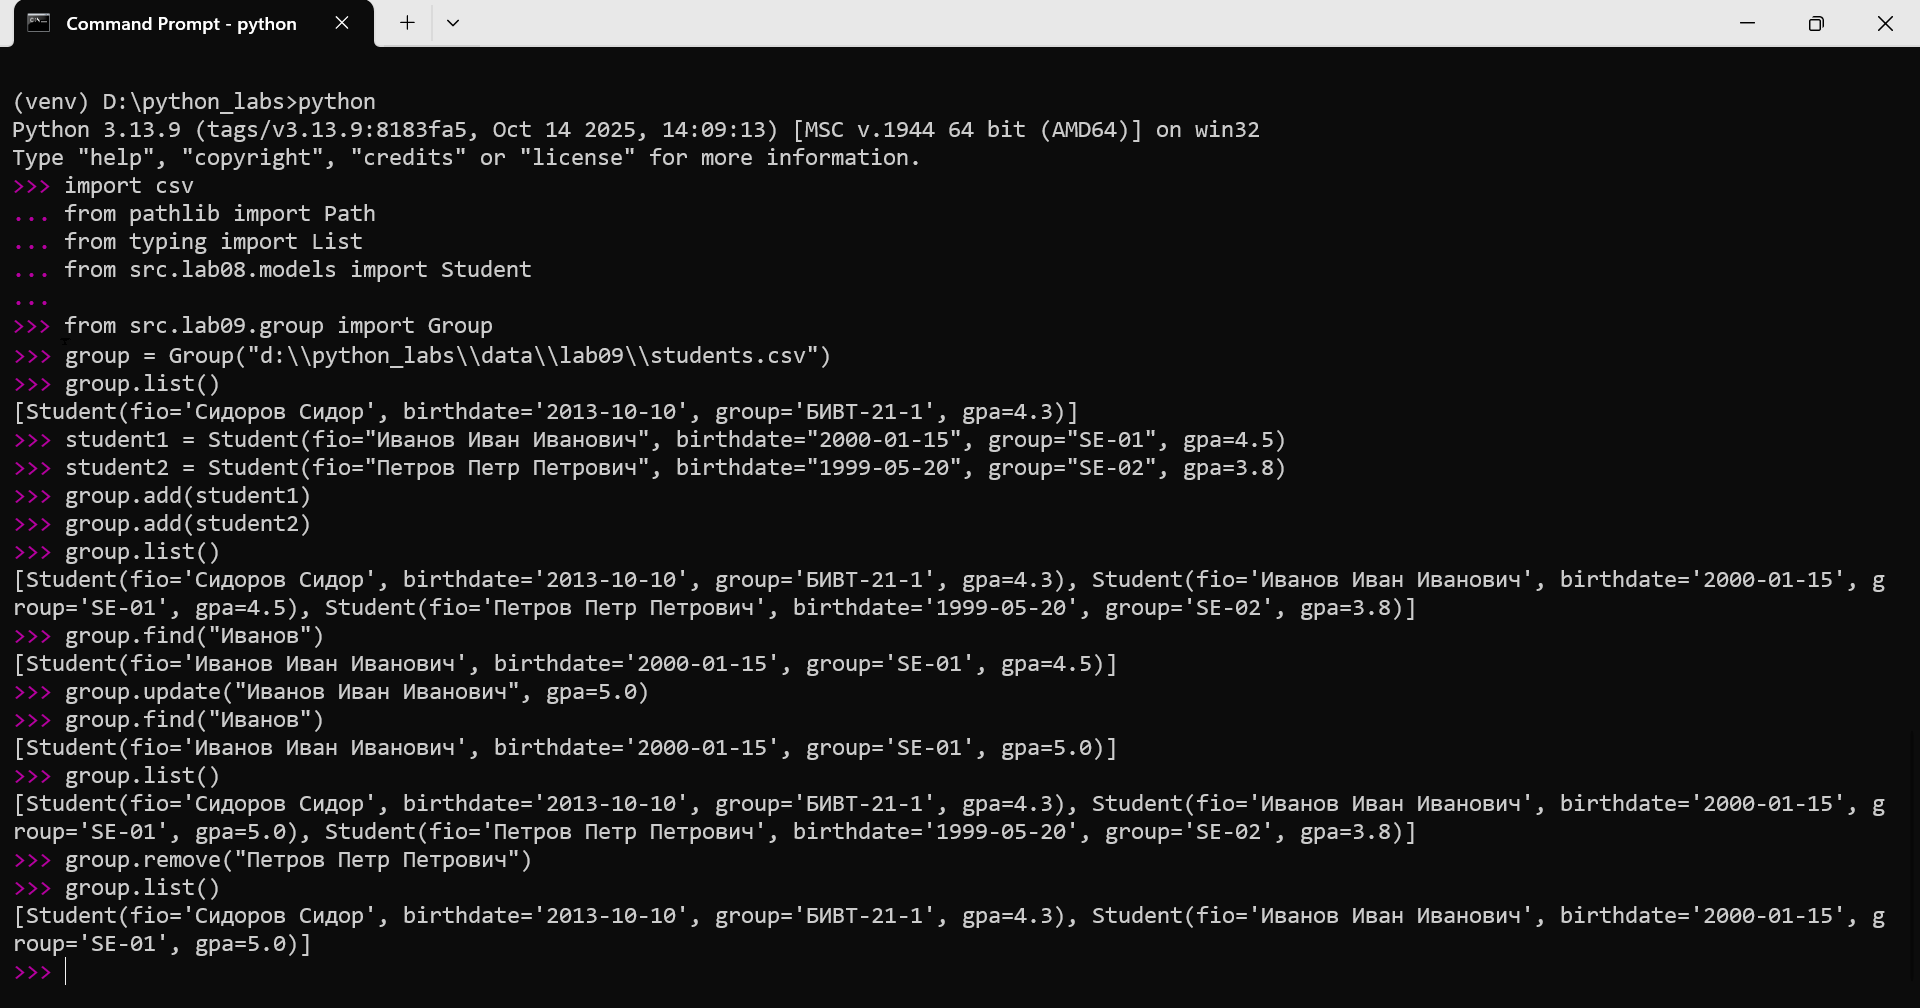
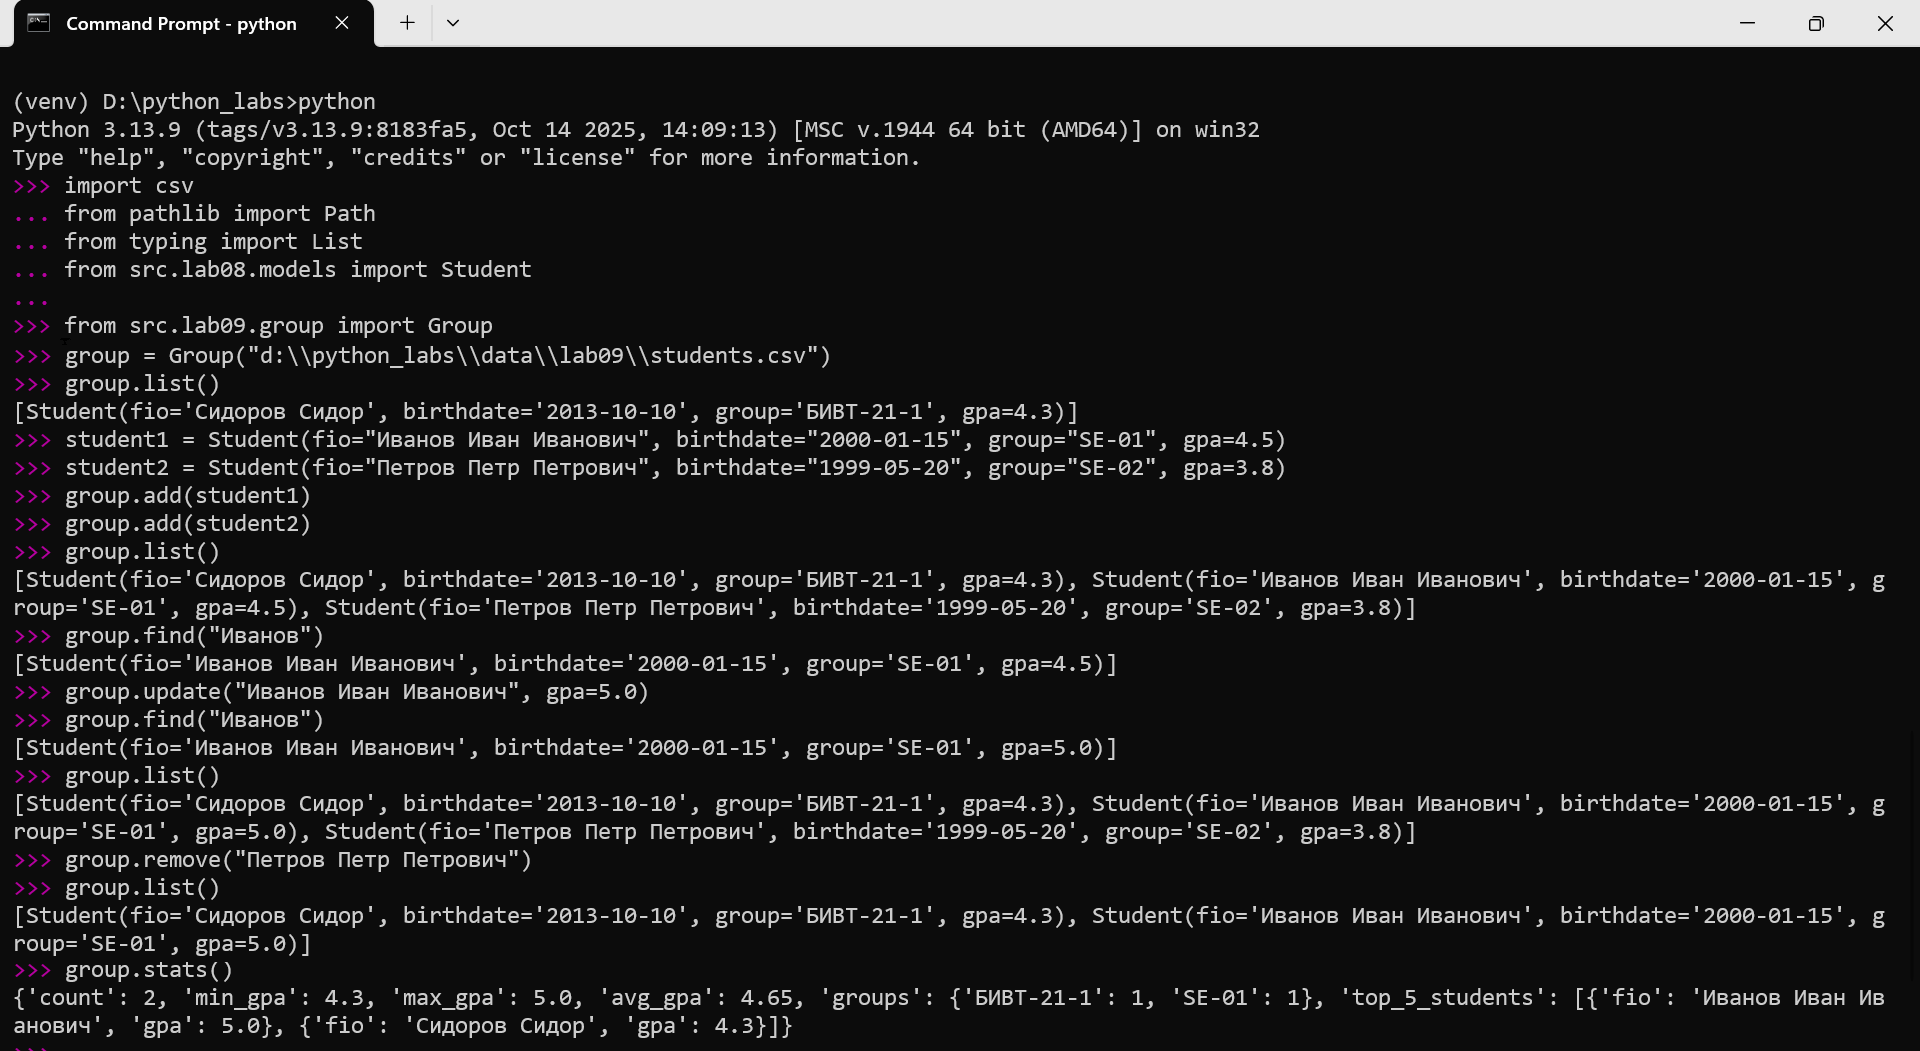
lab9 done

diff --git a/src/lab09/group.py b/src/lab09/group.py
@@ -1,31 +1,3 @@
-# CRUD — стандартный набор операций:
-# Операция 	Назначение
-# Create 	Добавление записи
-# Read 	Получение списка / поиск
-# Update 	Изменение существующей записи
-# Delete 	Удаление
-
-# описание класса Group:
-#
-#     поля (атрибуты экземпляра):
-#         path — путь к CSV-файлу с данными студентов
-#
-#     методы:
-#         __init__(storage_path) — инициализация группы и файла-хранилища
-#         list() — вернуть всех студентов в виде списка Student
-#         add(student) — добавить нового студента в CSV
-#         find(substr) — найти студентов по подстроке в fio
-#         remove(fio) — удалить запись(и) с данным fio
-#         update(fio, **fields) — обновить поля существующего студента
-#
-#     внутренние вспомогательные методы (опционально):
-#         _read_all() — прочитать все строки из CSV
-#         _ensure_storage_exists() — создать файл с заголовком, если его ещё нет
-#
-#     валидация:
-#         наличие строки-заголовка в CSV (fio,birthdate,group,gpa)
-#         соответствие каждой строки корректному объекту Student
-
 import csv
 from pathlib import Path
 from typing import List
@@ -65,8 +37,6 @@ class Group:
 
     def add(self, student: Student) -> None:
         with self.path.open(mode="a", encoding="utf-8", newline="") as f:
-            # writer = csv.DictWriter(f, fieldnames=self.HEADER)
-            # writer.writerow(student.to_dict())
             writer = csv.writer(f)
             writer.writerow([student.fio, student.birthdate, student.group, student.gpa])
 
@@ -97,30 +67,63 @@ class Group:
             for student in students:
                 writer.writerow([student.fio, student.birthdate, student.group, student.gpa])
 
+    def stats(self) -> dict:
+        students = self._read_all()
+        if not students:
+            return {
+                "count": 0,
+                "min_gpa": None,
+                "max_gpa": None,
+                "avg_gpa": None,
+                "groups": {},
+                "top_5_students": [],
+            }
+
+        count = len(students)
+        gpas = [student.gpa for student in students]
+        min_gpa = min(gpas)
+        max_gpa = max(gpas)
+        avg_gpa = sum(gpas) / count
+
+        groups = {}
+        for student in students:
+            groups[student.group] = groups.get(student.group, 0) + 1
+
+        top_5_students = sorted(students, key=lambda s: s.gpa, reverse=True)[:5]
+        top_5_students = [{"fio": student.fio, "gpa": student.gpa} for student in top_5_students]
+
+        return {
+            "count": count,
+            "min_gpa": min_gpa,
+            "max_gpa": max_gpa,
+            "avg_gpa": avg_gpa,
+            "groups": groups,
+            "top_5_students": top_5_students,
+        }
 # Пример использования:
-if __name__ == "__main__":
-    current_directory = Path(__file__).parent.parent
-    root_directory = current_directory.parent
-    group = Group(f"{root_directory}\\data\\lab09\\students.csv")
-
-    # Добавление студентов
-    student1 = Student(fio="Иванов Иван Иванович", birthdate="2000-01-15", group="SE-01", gpa=4.5)
-    student2 = Student(fio="Петров Петр Петрович", birthdate="1999-05-20", group="SE-02", gpa=3.8)
-    group.add(student1)
-    group.add(student2)
-
-    # Вывод всех студентов
-    all_students = group.list()
-    for student in all_students:
-        print(student)
-
-    # Поиск студентов по подстроке в fio
-    found_students = group.find("Иванов")
-    for student in found_students:
-        print("Найден:", student)
-
-    # Обновление студента
-    group.update("Иванов Иван Иванович", gpa=5.0)
-
-    # Удаление студента
-    group.remove("Петров Петр Петрович")
+# if __name__ == "__main__":
+#     current_directory = Path(__file__).parent.parent
+#     root_directory = current_directory.parent
+#     group = Group(f"{root_directory}\\data\\lab09\\students.csv")
+#
+#     # Добавление студентов
+#     student1 = Student(fio="Иванов Иван Иванович", birthdate="2000-01-15", group="SE-01", gpa=4.5)
+#     student2 = Student(fio="Петров Петр Петрович", birthdate="1999-05-20", group="SE-02", gpa=3.8)
+#     group.add(student1)
+#     group.add(student2)
+#
+#     # Вывод всех студентов
+#     all_students = group.list()
+#     for student in all_students:
+#         print(student)
+#
+#     # Поиск студентов по подстроке в fio
+#     found_students = group.find("Иванов")
+#     for student in found_students:
+#         print("Найден:", student)
+#
+#     # Обновление студента
+#     group.update("Иванов Иван Иванович", gpa=5.0)
+#
+#     # Удаление студента
+#     group.remove("Петров Петр Петрович")

diff --git a/src/lab09/README.md b/src/lab09/README.md
@@ -1,0 +1,50 @@
+# ЛР8 – ЛР9 — «База данных» на CSV: класс Group, CRUD-операции и CLI
+
+## Задание
+```
+A. Реализовать класс Group, содержащий:
+
+    поля (атрибуты экземпляра):
+        path — путь к CSV-файлу с данными студентов
+
+    методы:
+        __init__(storage_path) — инициализация группы и файла-хранилища
+        list() — вернуть всех студентов в виде списка Student
+        add(student) — добавить нового студента в CSV
+        find(substr) — найти студентов по подстроке в fio
+        remove(fio) — удалить запись(и) с данным fio
+        update(fio, **fields) — обновить поля существующего студента
+
+    внутренние вспомогательные методы (опционально):
+        _read_all() — прочитать все строки из CSV
+        _ensure_storage_exists() — создать файл с заголовком, если его ещё нет
+
+    валидация:
+        наличие строки-заголовка в CSV (fio,birthdate,group,gpa)
+        соответствие каждой строки корректному объекту Student
+
+★ Дополнительное задание (со звёздочкой)
+Расширенная аналитика по группе
+
+Добавить в класс Group аналитический метод, собирающий статистику по студентам.
+Метод stats(self) -> dict
+
+Метод должен возвращать словарь следующей структуры:
+
+{
+    "count": <общее количество студентов>,
+    "min_gpa": <минимальный gpa>,
+    "max_gpa": <максимальный gpa>,
+    "avg_gpa": <средний gpa>,
+    "groups": {
+        "БИВТ-21-1": <число студентов>,
+        "БИВТ-21-2": <число студентов>,
+        ...
+    },
+    "top_5_students": [
+        {"fio": "...", "gpa": ...},
+        ...
+    ]
+}
+```
+![](../../images/lab09/img01.PNG)
